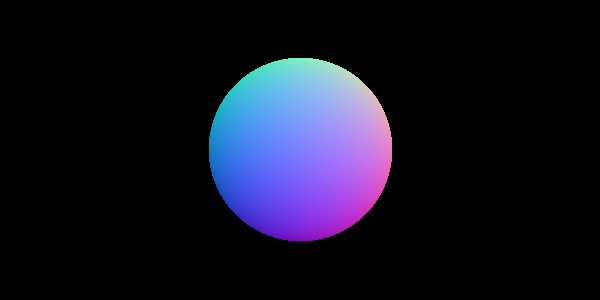
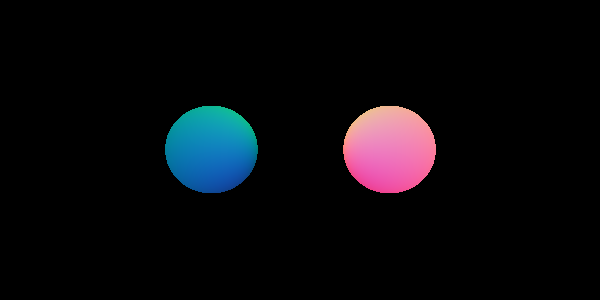
render multiple spheres

Changed region(s): [[0.27, 0.18, 0.75, 0.81]]

diff --git a/Renderer.py b/Renderer.py
@@ -2,6 +2,7 @@ import Utils
 from Sphere import Sphere
 from Camera import Camera
 import numpy as np
+from Scene import Scene
 from dataclasses import dataclass
 
 
@@ -22,13 +23,15 @@ class Ray:
 class Renderer:
     def __init__(self, width, height):
         self.cam = None
+        self.scene = None
         self.width = width
         self.height = height
         self.image = None
 
-    def Render(self, cam: Camera):
+    def Render(self, cam: Camera, scene : Scene):
 
         self.cam = cam
+        self.scene = scene
         self.image = np.zeros((self.height, self.width, 3))
 
         for y in range(0, self.height):
@@ -42,7 +45,7 @@ class Renderer:
     def PerPixel(self, x: int, y: int) -> np.ndarray:
 
         rayDirection = self.cam.rayDirections[x + y * self.width]
-        rayOrigin = self.cam.position
+        rayOrigin = self.cam.Position
         ray = Ray(rayOrigin, rayDirection)
 
         color = np.array([0, 0, 0])
@@ -57,43 +60,46 @@ class Renderer:
 
         normal = hitPayload.WorldNormal
 
-        color = np.array([normal[0][0], normal[1][0], normal[2][0]])
-        color = np.clip(color, 0.0, 1.0)
+        color = np.array([normal[0][0], normal[1][0], normal[2][0]]) * 0.5 + 0.5
         return color
 
     def TraceRay(self, ray: Ray):
         closestSphere = -1
         hitDistance = float("inf")
 
-        sphere = Sphere(np.array([[0], [0], [0]]), 1.0)
+        for i in range(0, len(self.scene.Spheres)):
+            sphere = self.scene.Spheres[i]
+            origin = ray.Origin - sphere.Position
 
-        origin = ray.Origin - sphere.position
+            # a * t² + b * t + c
+            a = np.dot(ray.Direction.T, ray.Direction)
+            b = 2.0 * np.dot(ray.Direction.T, origin)
+            c = np.dot(origin.T, origin) - np.square(sphere.Radius)
 
-        # a * t² + b * t + c
-        a = np.dot(ray.Direction.T, ray.Direction)
-        b = 2.0 * np.dot(ray.Direction.T, origin)
-        c = np.dot(origin.T, origin) - np.square(sphere.radius)
+            discriminant = np.square(b) - 4.0 * a * c
 
-        discriminant = np.square(b) - 4.0 * a * c
+            if discriminant < 0:
+                continue
 
-        if discriminant < 0:
+            closestT = (-b - np.sqrt(discriminant)) / (2 * a)
+            if (closestT > 0 and closestT < hitDistance):
+                hitDistance = closestT
+                closestSphere = i
+
+        if closestSphere < 0:
             return self.Miss(ray)
 
-        closestT = (-b - np.sqrt(discriminant)) / (2 * a)
-        if (closestT > 0 and closestT < hitDistance):
-            hitDistance = closestT
-
-            return self.ClosestHit(ray, hitDistance, closestSphere)
+        return self.ClosestHit(ray, hitDistance, closestSphere)
 
     def ClosestHit(self, ray: Ray, hitDistance, objectIndex):
 
         closestSphere = Sphere(np.array([[0], [0], [0]]), 1.0)
 
-        origin = ray.Origin - closestSphere.position
+        origin = ray.Origin - closestSphere.Position
         worldPosition = origin + ray.Direction * hitDistance
         worldNormal = Utils.normalize(worldPosition)
 
-        worldPosition = worldPosition + closestSphere.position
+        worldPosition = worldPosition + closestSphere.Position
 
         return HitPayload(hitDistance, worldPosition, worldNormal, objectIndex)
 

diff --git a/Camera.py b/Camera.py
@@ -8,7 +8,7 @@ class Camera:
         self.viewPortWidth = vpWidth
         self.viewPortHeight = vpHeight
         self.forwardDirection = forwardDirection
-        self.position = position
+        self.Position = position
 
         self.neaClip = 0.1
         self.farClip = 100.0
@@ -51,7 +51,7 @@ class Camera:
 
 
     def __calculateView(self):
-        self.view = self.__lookAt(self.position, self.position + self.forwardDirection, np.array([[0], [1], [0]]))
+        self.view = self.__lookAt(self.Position, self.Position + self.forwardDirection, np.array([[0], [1], [0]]))
         self.inverseView = np.linalg.inv(self.view)
 
     def CalculateRayDirections(self):

diff --git a/main.py b/main.py
@@ -1,4 +1,6 @@
 from Camera import Camera
+from Sphere import Sphere
+from Scene import Scene
 import numpy as np
 import matplotlib.pyplot as plt
 from Renderer import Renderer
@@ -13,7 +15,13 @@ cam.CalculateRayDirections()
 
 renderer = Renderer(width, height)
 
-renderer.Render(cam)
+spheres = list()
+spheres.append(Sphere(np.array([[-1], [0], [0]]), 0.5))
+spheres.append(Sphere(np.array([[1], [0], [0]]), 0.5))
+
+scene = Scene(spheres)
+
+renderer.Render(cam, scene)
 
 image = np.flipud(renderer.image)
 plt.imsave('image.png', image)

diff --git a/Sphere.py b/Sphere.py
@@ -3,5 +3,5 @@ from dataclasses import dataclass
 
 @dataclass
 class Sphere:
-    position: np.ndarray
-    radius: float
+    Position: np.ndarray
+    Radius: float

diff --git a/Scene.py b/Scene.py
@@ -1,0 +1,5 @@
+from dataclasses import dataclass
+
+@dataclass
+class Scene:
+    Spheres : list
